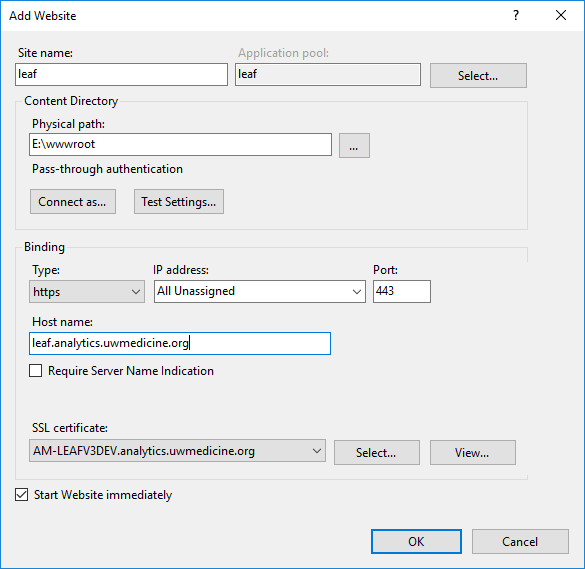
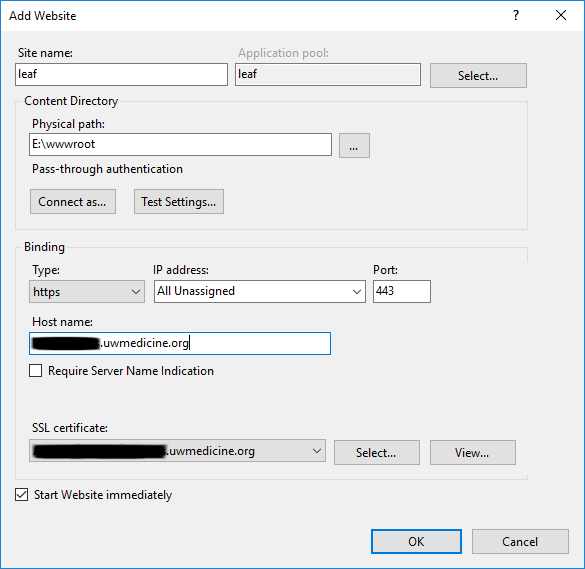
edit iis_website.png to black out urls

Changed region(s): [[0.0308, 0.7768, 0.3077, 0.8067], [0.0308, 0.5677, 0.1846, 0.6274]]

diff --git a/docs/deploy/app/README.md b/docs/deploy/app/README.md
@@ -3,6 +3,9 @@ The application server hosts the [Leaf REST API](https://github.com/uwrit/leaf/t
 
 The API is written in C# and .NET Core, and can run in either Linux or Windows environments.
 
+## Build
+TODO
+
 ## Installation
 1) [Creating a JWT Signing Key](#creating-a-jwt-signing-key)
 2) [Setting Environment Variables](#setting-environment-variables)

diff --git a/docs/deploy/web/iis/README.md b/docs/deploy/web/iis/README.md
@@ -23,3 +23,4 @@
    - See [SAML2](https://github.com/uwrit/leaf/tree/master/docs/deploy/saml2) for IdP specific configuration.
 4) Create the website to host the Leaf browser application.
 ![Example](https://github.com/uwrit/leaf/blob/master/docs/deploy/images/iis_website.png "Example")
+5) Create an application behind the site to host the API. TODO
